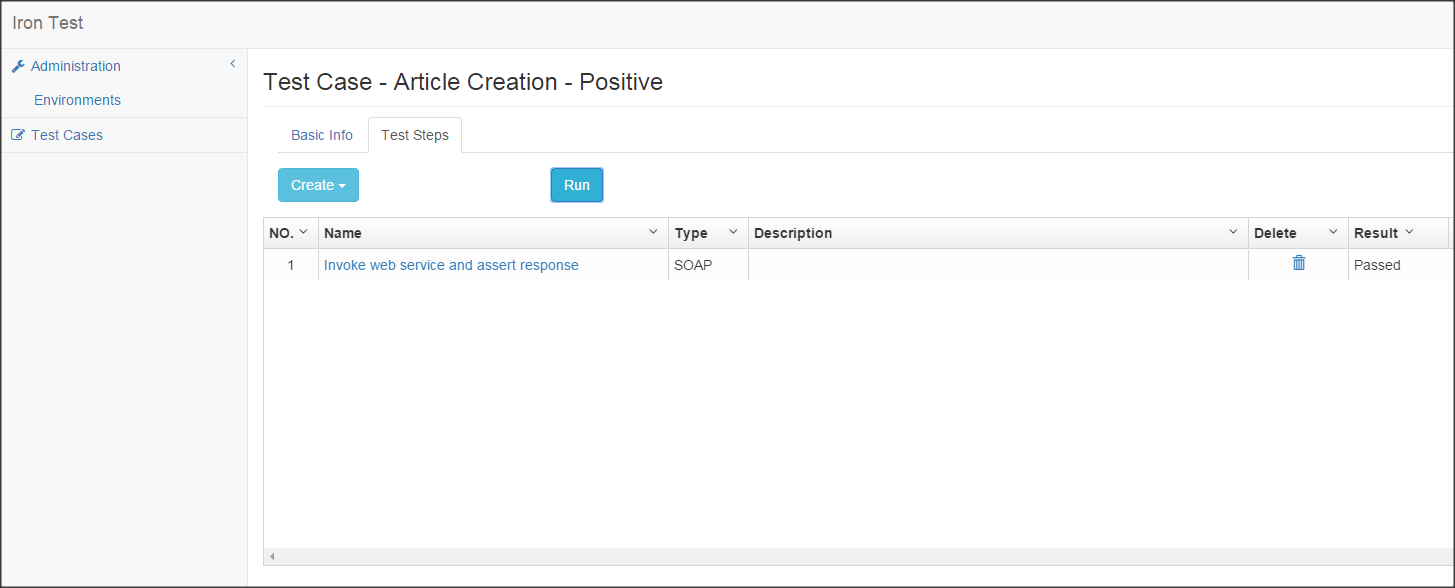
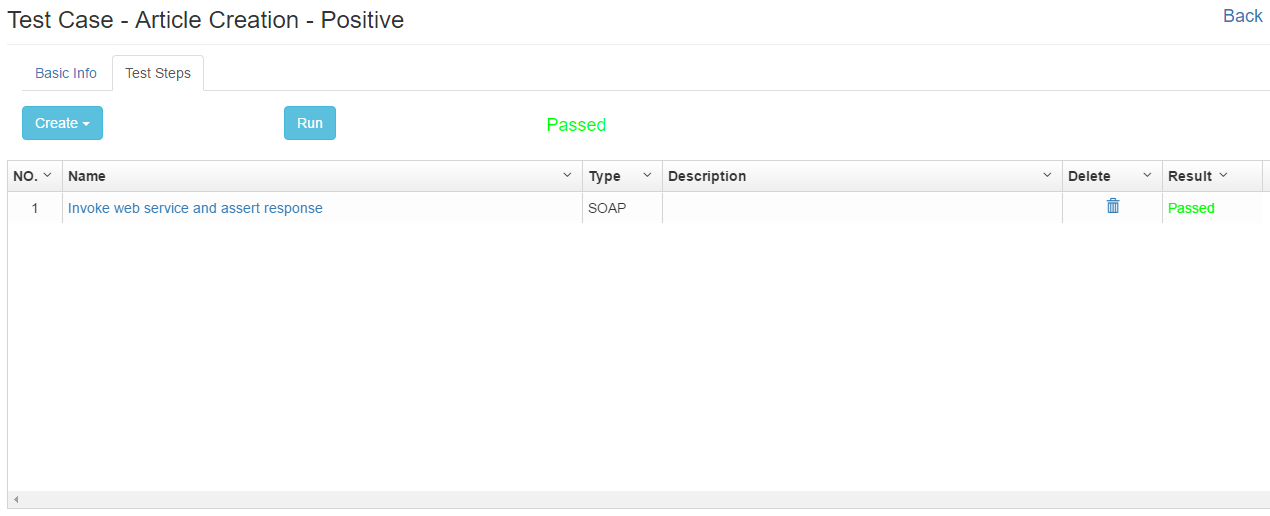
update readme

diff --git a/README.md b/README.md
@@ -86,12 +86,14 @@ In the assertions pane, click Create dropdown button and select Contains Asserti
 
 Now the test step edit has finished. Click the Back link to return to test case edit view. 
 
-Our test case has only one step. Click the Run button to run the test case, and result is displayed for each test step.
+Our test case has only one step. Click the Run button to run the test case.
 
 ![Test Case Run](screenshots/soap/test-case-run.png)
 
+Click the result beside the Run button to see the whole test case run report. Click the result for one test step to see only its run report.
+
 ### More Usages
-Refer to the [wiki](https://github.com/zheng-wang/irontest/wiki).
+Please refer to the [wiki](https://github.com/zheng-wang/irontest/wiki).
 
 ## Maintain
 **It is highly recommended that you back up `<IronTest_Home>/database` folder regularly.** Remember to shut down the application before backing up.
